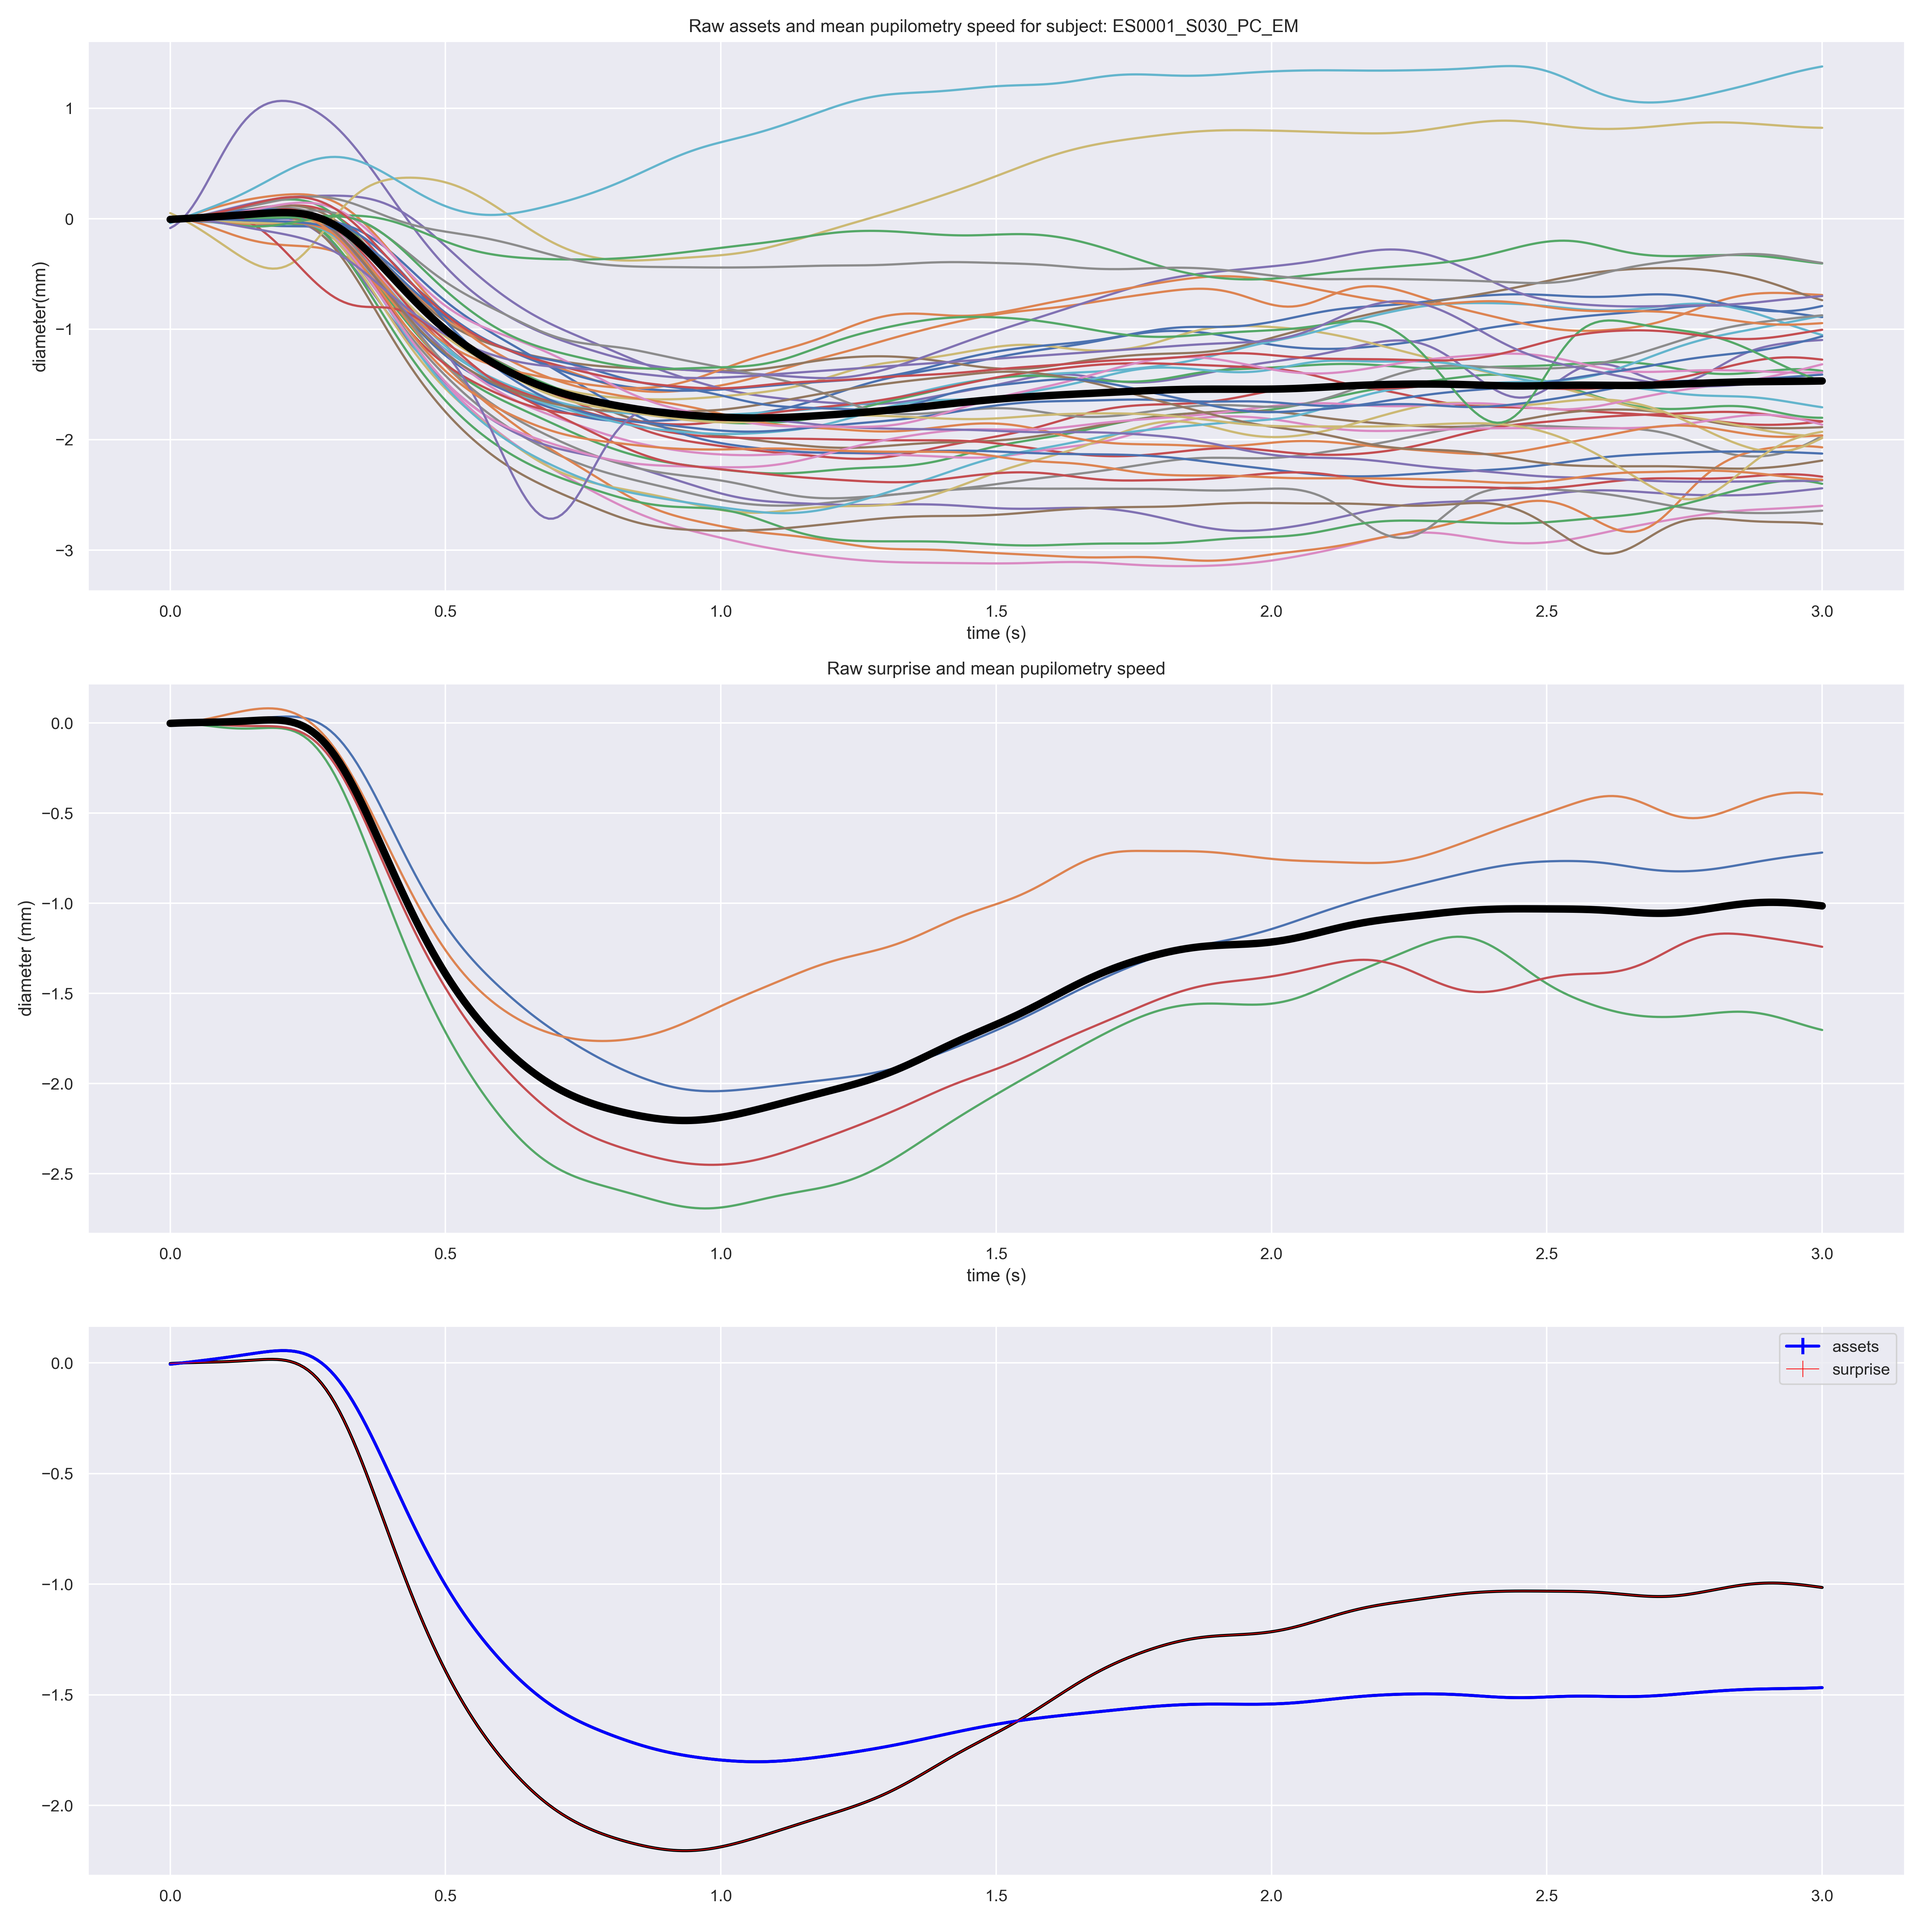
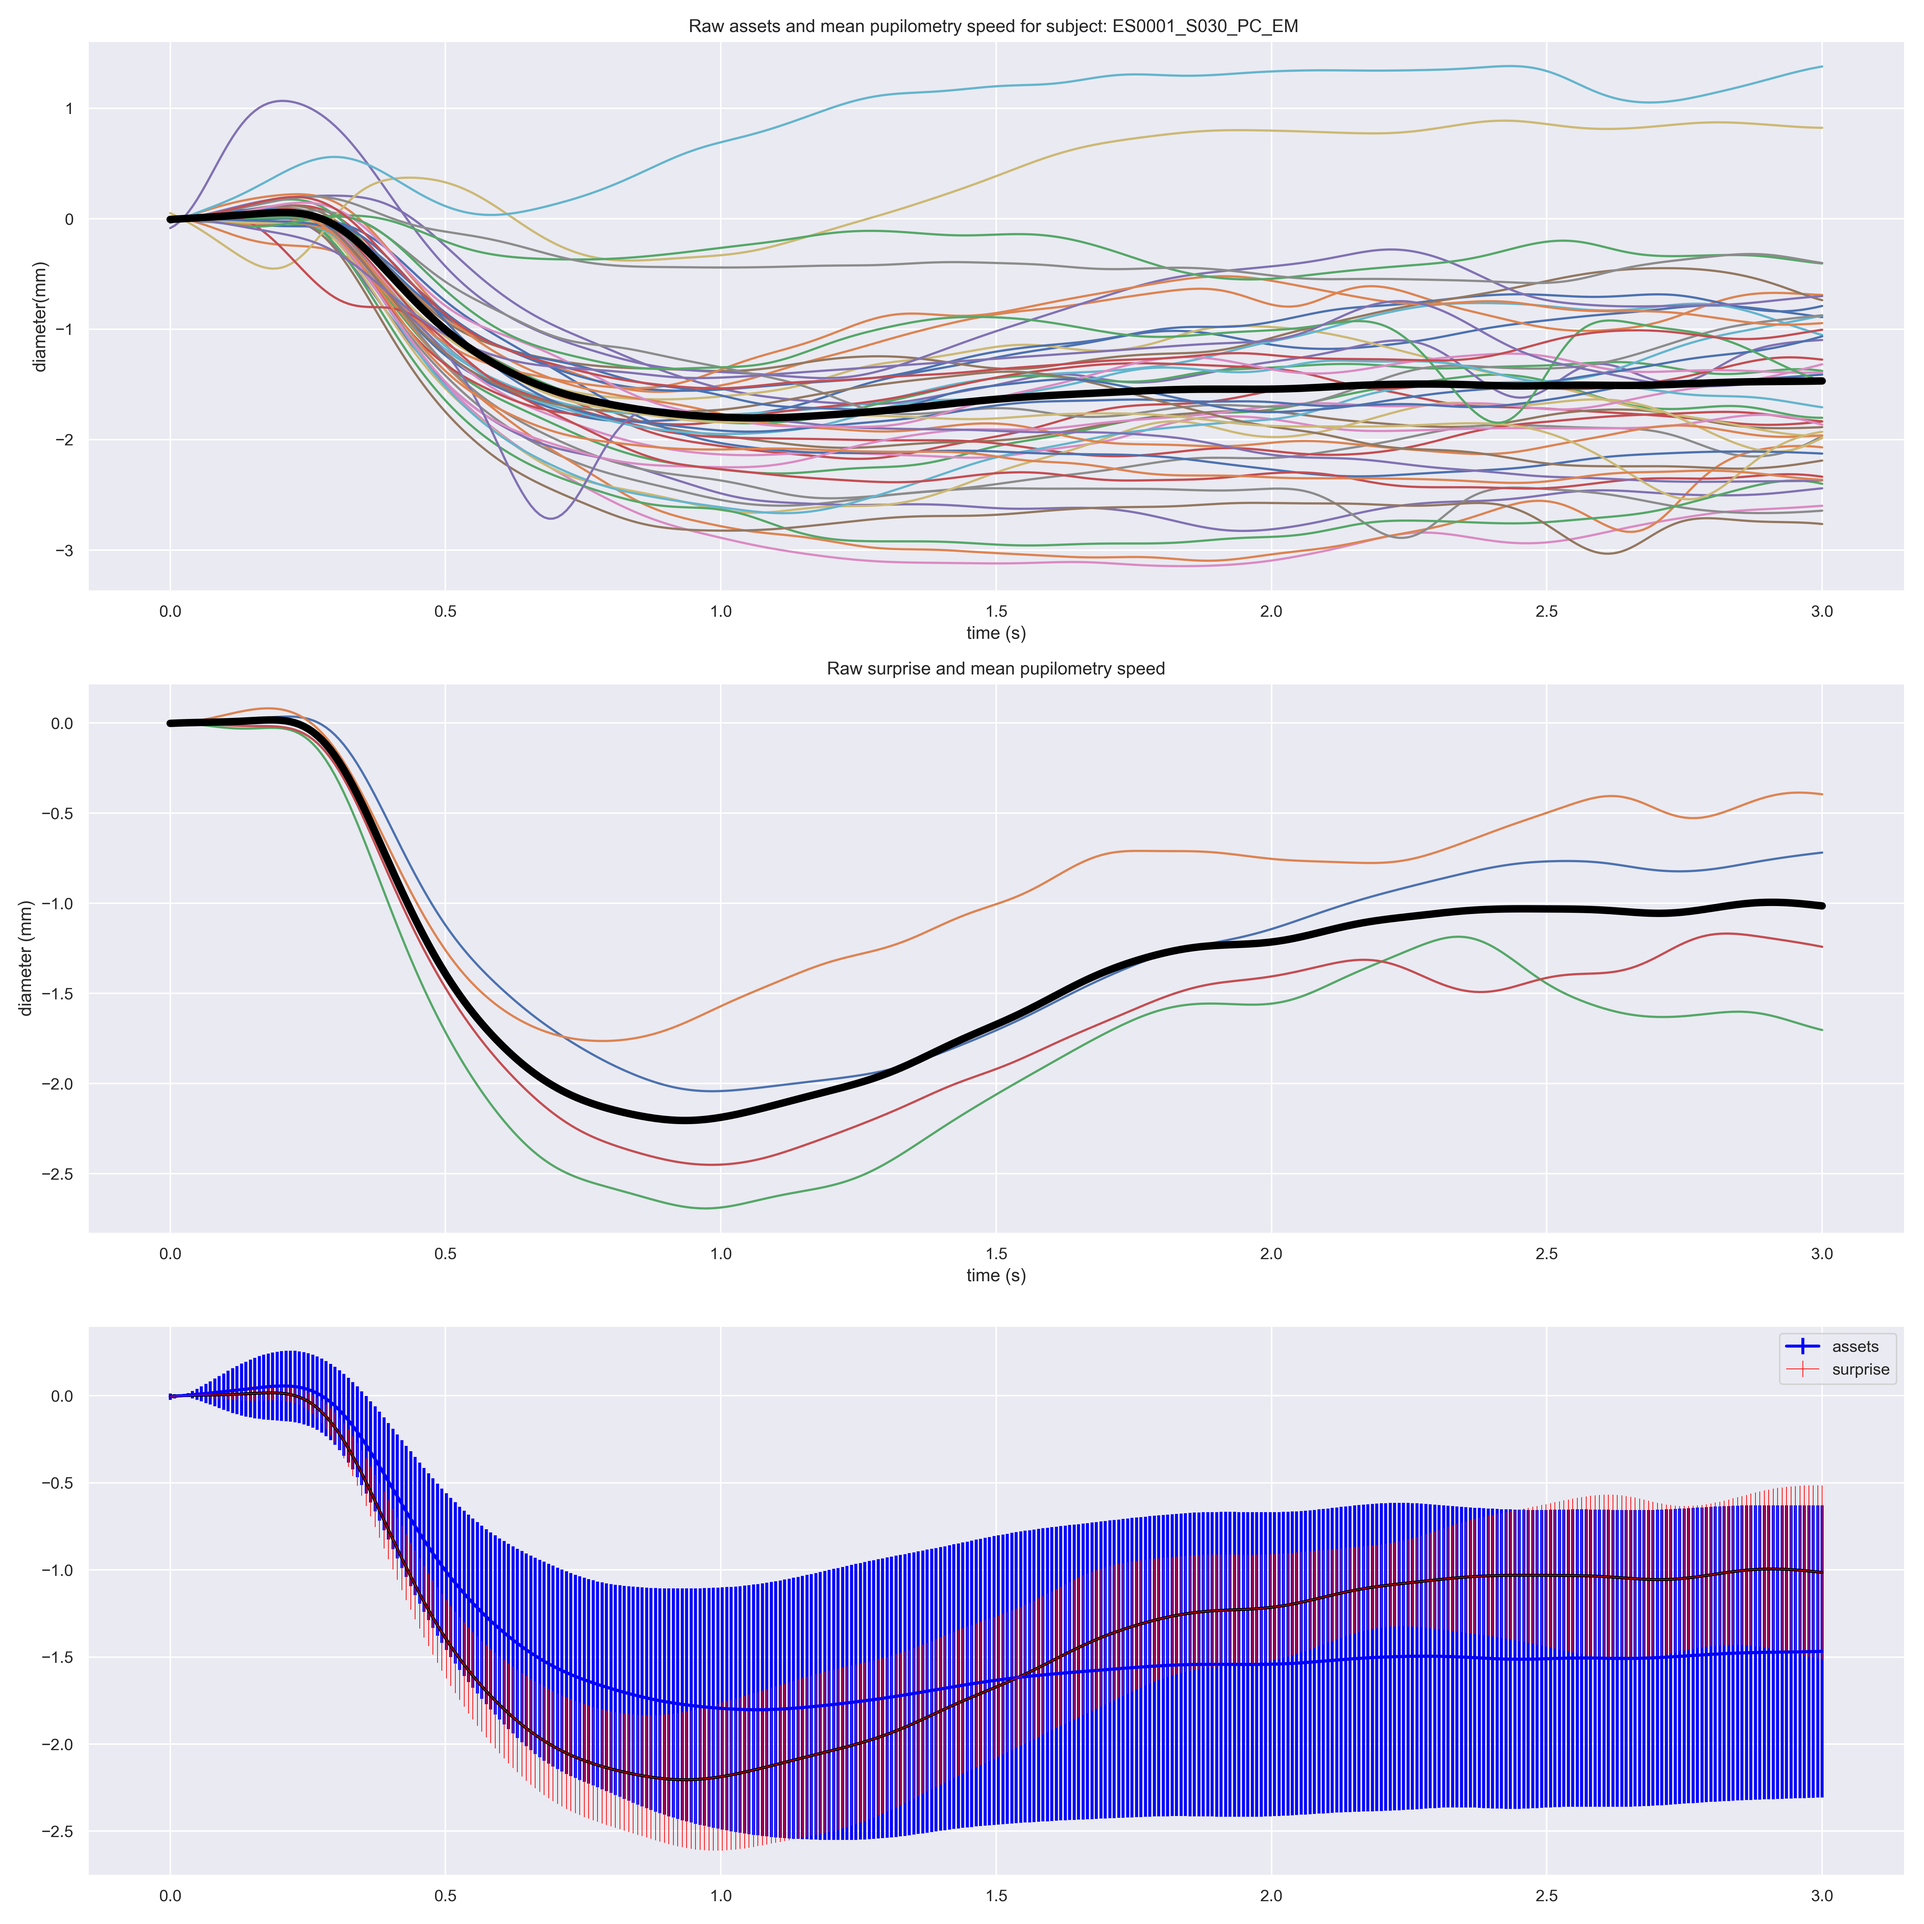
[st] changes

Changed region(s): [[0.0933, 0.6844, 0.9644, 0.9644]]

diff --git a/analysis/pupillometry/pupillometry2_0_commons.py b/analysis/pupillometry/pupillometry2_0_commons.py
@@ -40,3 +40,157 @@ def plot_signal_with_events(signal_df:pd.DataFrame,
     fig.set_size_inches((18, 5.5))
     return fig,ax
 
+
+def plot_events_and_surprise(signal_df:pd.DataFrame,
+                             filter_assets:list,
+                             filter_surprise:list,
+                             time_x:np.array,
+                             subject:str
+                            ):
+
+    mat=signal_df.reindex(columns=filter_assets).values
+    mat_std=signal_df.reindex(columns=filter_assets).values
+
+    mat2=signal_df.reindex(columns= filter_surprise).values
+    mat2_std=signal_df.reindex(columns= filter_surprise).values
+
+    fig, ax=plt.subplots(3,1,)
+    ax[0].plot(time_x,mat)
+    ax[0].plot(time_x,np.mean(mat,axis=1),linewidth=5,color='black')
+    # ax.legend([images,'assets mean'])
+    ax[0].set_title(f'Raw assets and mean pupilometry speed for subject: {subject} ')
+    ax[0].set_xlabel('time (s)')
+    ax[0].set_ylabel('diameter(mm)')
+
+
+    ax[1].plot(time_x,mat2)
+    ax[1].plot(time_x,np.mean(mat2,axis=1),linewidth=5,color='black')
+    ax[1].set_title('Raw surprise and mean pupilometry speed')
+    ax[1].set_xlabel('time (s)')
+    ax[1].set_ylabel('diameter (mm)')
+
+    ax[2].errorbar(time_x,np.mean(mat,axis=1),np.std(mat_std,axis=1),linewidth=2,color='blue')
+    ax[2].errorbar(time_x,np.mean(mat2,axis=1),np.std(mat2_std,axis=1),linewidth=0.5,color='red')
+    ax[2].legend(['assets','surprise'])
+    ax[2].plot(time_x,np.mean(mat2,axis=1),linewidth=2,color='black')
+    ax[2].plot(time_x,np.mean(mat,axis=1),linewidth=2,color='black')
+
+    fig.set_size_inches((18, 18))
+    fig.tight_layout()
+    fig.savefig(f'figures/{subject}_data_assets.png', dpi=300)
+        
+    def extract_eye_data(pupil_df:pd.DataFrame,eye_id: str = 'best',
+               method: str = 'pye3d 0.3.0 real-time',confidence_thr: float=0.95)-> pd.DataFrame:
+        # TODO: Refactor function in smaller chunks-- clean code
+        """Function to extract pupil data for eye of interest. 
+        Left eye, right eye or best eye can be extracted for further analysis
+
+        Args:
+            pupil_df (pd.DataFrame): pupil pandas dataframe
+            eye_id (str, optional): _description_. Defaults to 'best'.
+            method (str, optional): _description_. Defaults to 'pye3d 0.3.0 real-time'.
+            confidence_thr: Confidence thershold for data qualiltu filtering. Deafults to 0.95
+
+        Raises:
+            ValueError: a string must be put to indicate if we are using left, right eye or best
+
+        Returns:
+            pd.DataFrame: pandas dataframe with pupil data of interest
+        """
+        global SAMPLE_RATE
+        pupil_df = pupil_df.loc[pupil_df.method.str.contains(method)]
+
+        pupil_left_eye=pupil_df.loc[(pupil_pd_frame['eye_id']==1) & (pupil_pd_frame['confidence']>=confidence_thr)]
+        pupil_right_eye=pupil_df.loc[(pupil_pd_frame['eye_id']==0) & (pupil_pd_frame['confidence']>=confidence_thr)]
+
+        blinks_left_eye=pupil_df.loc[(pupil_pd_frame['eye_id']==1) & (pupil_pd_frame['confidence']< confidence_thr)]
+        blinks_right_eye=pupil_df.loc[(pupil_pd_frame['eye_id']==0) & (pupil_pd_frame['confidence']< confidence_thr)]
+
+
+        ##  Explore blinks and Asses data quality, are there many regions with data gaps? 
+        parts = list(recording_location.parts)
+        parts=parts[0:-2]
+        parts=Path(*parts)
+        f = open(parts.joinpath('info.player.json'))
+        data = json.load(f)
+        time_whole_recording=data['duration_s']
+        time_roi_left=abs(pupil_left_eye['pupil_timestamp'].values[-1]-pupil_left_eye['pupil_timestamp'].values[0])
+        time_roi_right=abs(pupil_right_eye['pupil_timestamp'].values[-1]-pupil_right_eye['pupil_timestamp'].values[0])
+
+        pupil_sampling_freq_left=(pupil_left_eye.shape[0]+blinks_left_eye.shape[0])/time_roi_left
+        pupil_sampling_freq_right=(pupil_right_eye.shape[0]+blinks_right_eye.shape[0])/time_roi_right 
+        print(f'time of the whole recording is {time_whole_recording}')
+        print(f'time after anottaion cutting {time_roi_left:.2f}s for left eye and {time_roi_right:.2f}s for right eye')
+        print('sampling frequency for right eye is {}'.format(pupil_sampling_freq_right)) 
+        print('sampling frequency for left eye is {}'.format(pupil_sampling_freq_left)) 
+        # Closing file
+        f.close()
+
+        ### Asses data quality
+        total_blinks_left=blinks_left_eye.shape[0]/pupil_sampling_freq_left
+        total_blinks_right=blinks_right_eye.shape[0]/pupil_sampling_freq_right
+        print(f'Total blinks time left {total_blinks_left:.2f}s and right {total_blinks_right:.2f}s of a total of {time_roi_left:.2f}s left and {time_roi_right:.2f}s right')
+        print(f'Total blinks time left {total_blinks_left/time_roi_left:.2%} ')
+        print(f'Total blinks time right {total_blinks_right/time_roi_right:.2%} ')
+
+        if eye_id == 'left':
+            pupil_df = pupil_df[pupil_df.eye_id == 1]
+            SAMPLE_RATE=pupil_sampling_freq_left
+        elif eye_id == 'right':
+            pupil_df = pupil_df[pupil_df.eye_id == 0]
+            SAMPLE_RATE=pupil_sampling_freq_right
+        elif eye_id == 'best':
+            best = pupil_df.groupby(['eye_id'])['confidence'].mean()
+            display(best)
+            best=best.idxmax()
+            pupil_df = pupil_df[pupil_df.eye_id == best]
+            eye='left'if best==1 else 'right'
+            print(f'data from {eye} eye was selected')
+            SAMPLE_RATE=pupil_sampling_freq_left if best==1 else pupil_sampling_freq_right
+        else:
+            raise ValueError('Eye must be "left", "right" or "best".')
+        print('Loaded {} samples'.format(len(pupil_df)))
+        return pupil_df
+
+
+    def calculate_pupillometry(pupil_pd_frame,annotations_pd,recording_location,window_s=2,seconds_norm=0.05,signal_str='diameter_3d_z_score'):
+
+        # Cut data by annotations of interest
+        event_initial=annotations_pd['label'].values[0]
+        event_final=annotations_pd['label'].values[-1]
+
+        initial_anotation,_,_=cm.extract_annotations_timestamps(event_initial,'label',annotations_pd)
+        end_anotation=annotations_pd.iloc[-1]
+        display(initial_anotation)
+        display(end_anotation)
+
+        pupil_pd_frame=cm.filter_rows_by_temporal_values(
+                dataframe=pupil_pd_frame,
+                time_column='pupil_timestamp',
+                ini_value=initial_anotation['timestamp'].values[0],
+                end_value=end_anotation['timestamp']
+                )
+        
+        # ## Data cleaning
+        # Extracting pupil 3d data for analysis:
+        # 1) Select eye that has a better signal
+        # 2) Clean blinks from data
+        # 3) Asses that quality
+        pupil_df_raw=extract_eye_data(pupil_df=pupil_pd_frame,
+                          eye_id='best',
+                          method='pye3d 0.3.0 real-time')
+
+
+        ## Put timestamp data in seconds
+        pupil_df_raw['timestamp_s']=pupil_df_raw['pupil_timestamp']-pupil_df_raw['pupil_timestamp'].values[0]
+        annotations_pd['timestamp_s']=annotations_pd['timestamp']-annotations_pd['timestamp'].values[0]
+
+        filter_events=annotations_pd['label'].str.contains('Asset') | annotations_pd['label'].str.contains('Control') | annotations_pd['label'].str.contains('Surprise')
+
+        fig,ax=plot_signal_with_events(signal_df=pupil_df_raw,
+                                annotattion_df=annotations_pd[filter_events],
+                                time_col='timestamp_s',
+                                signal_col='diameter_3d')
+        ax.set_title(f'raw data for subject: {subject}')
+
+        fig.savefig(f'figures/{subject}_Raw.png', dpi=300)
